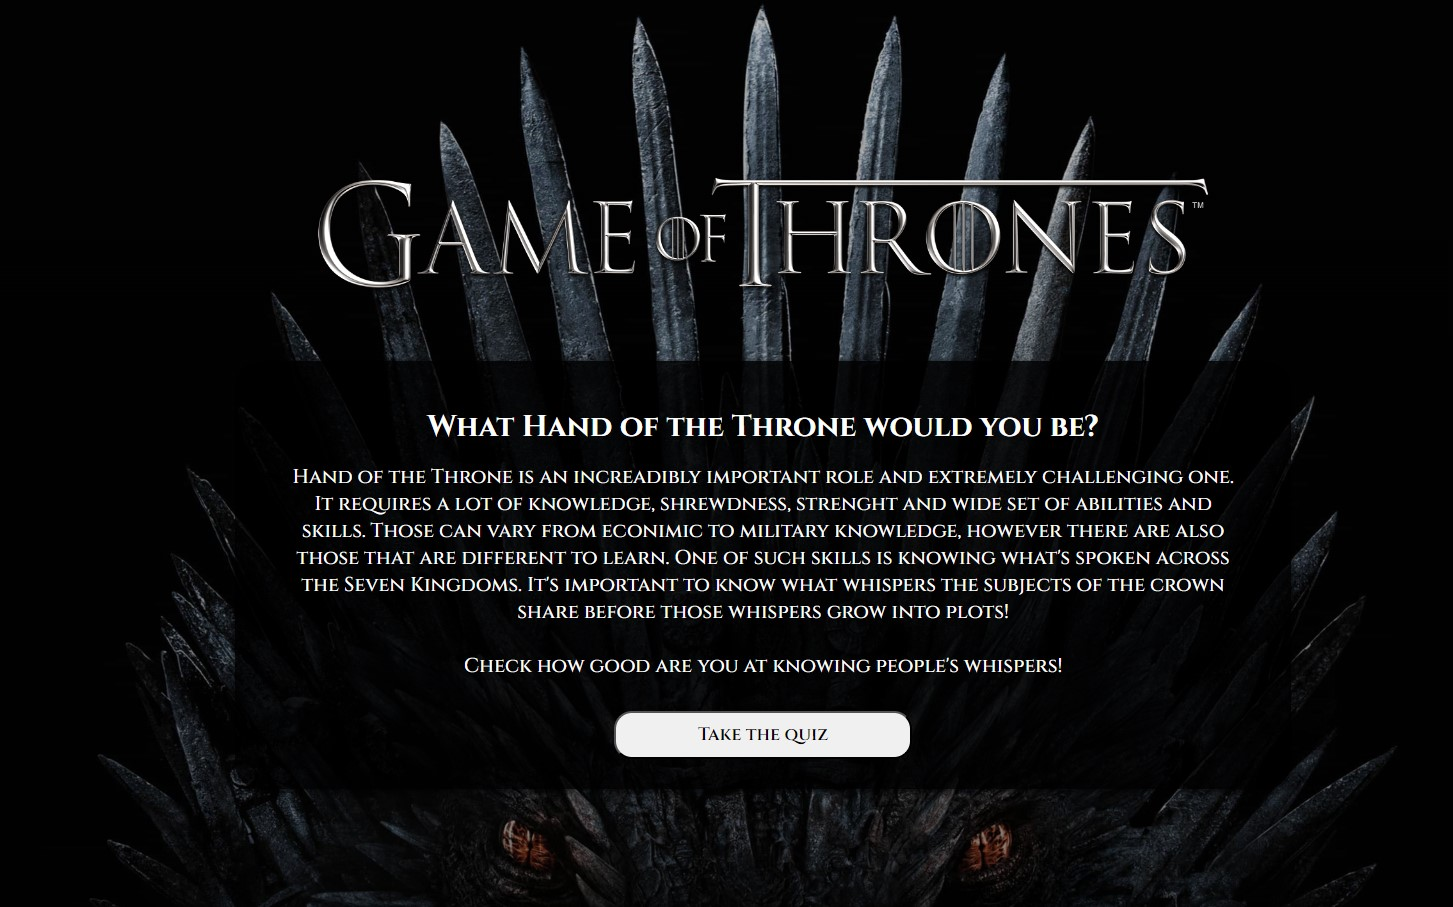
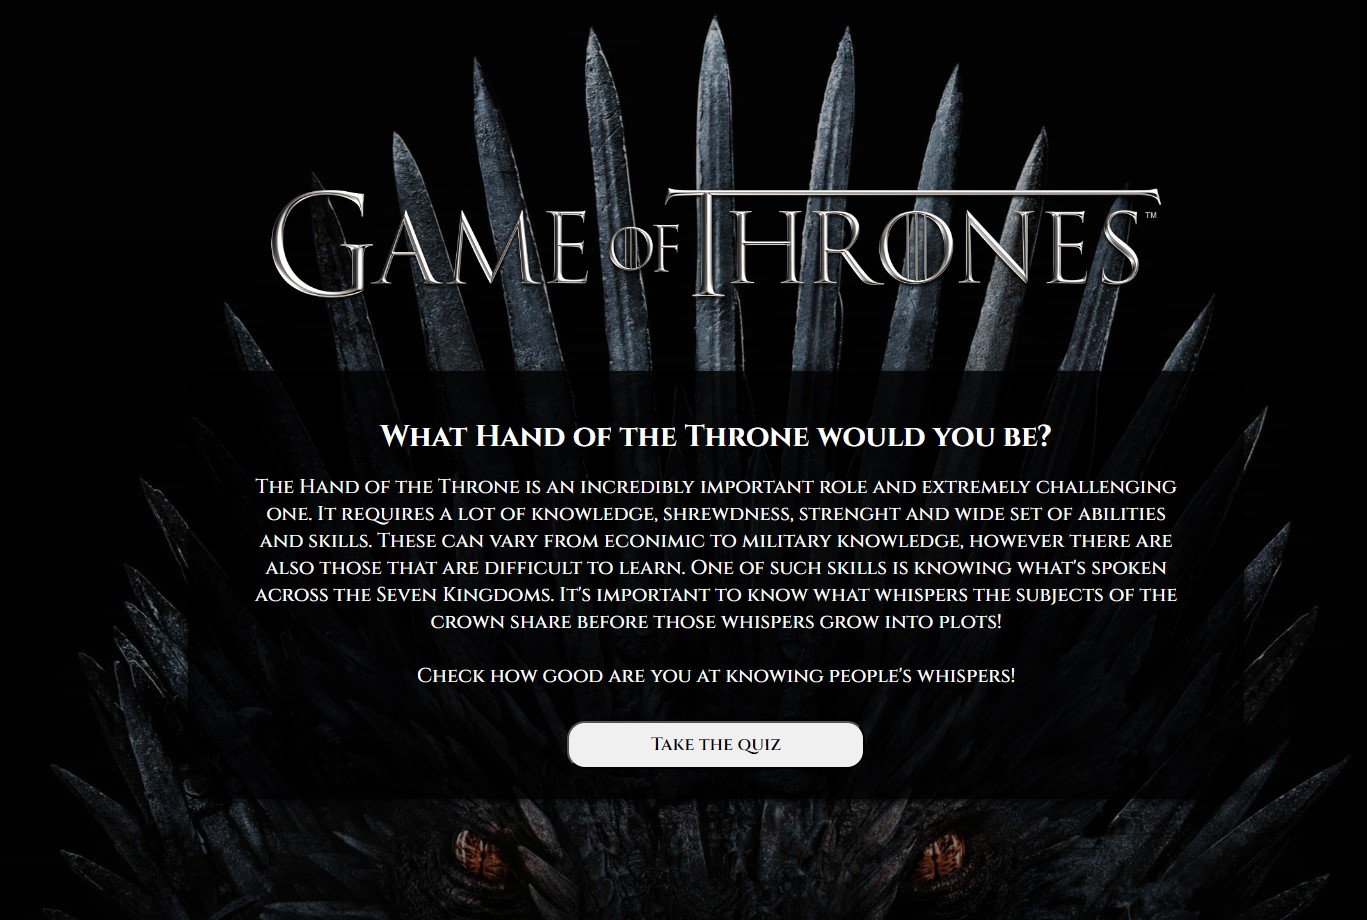
Corrected spelling

diff --git a/src/components/WelcomePage.js b/src/components/WelcomePage.js
@@ -26,7 +26,7 @@ const WelcomePage = (props) => {
               extremely challenging one. It requires a lot of knowledge,
               shrewdness, strenght and wide set of abilities and skills. These
               can vary from econimic to military knowledge, however there are
-              also those that are different to learn. One of such skills is
+              also those that are difficult to learn. One of such skills is
               knowing what's spoken across the Seven Kingdoms. It's important to
               know what whispers the subjects of the crown share before those
               whispers grow into plots!
